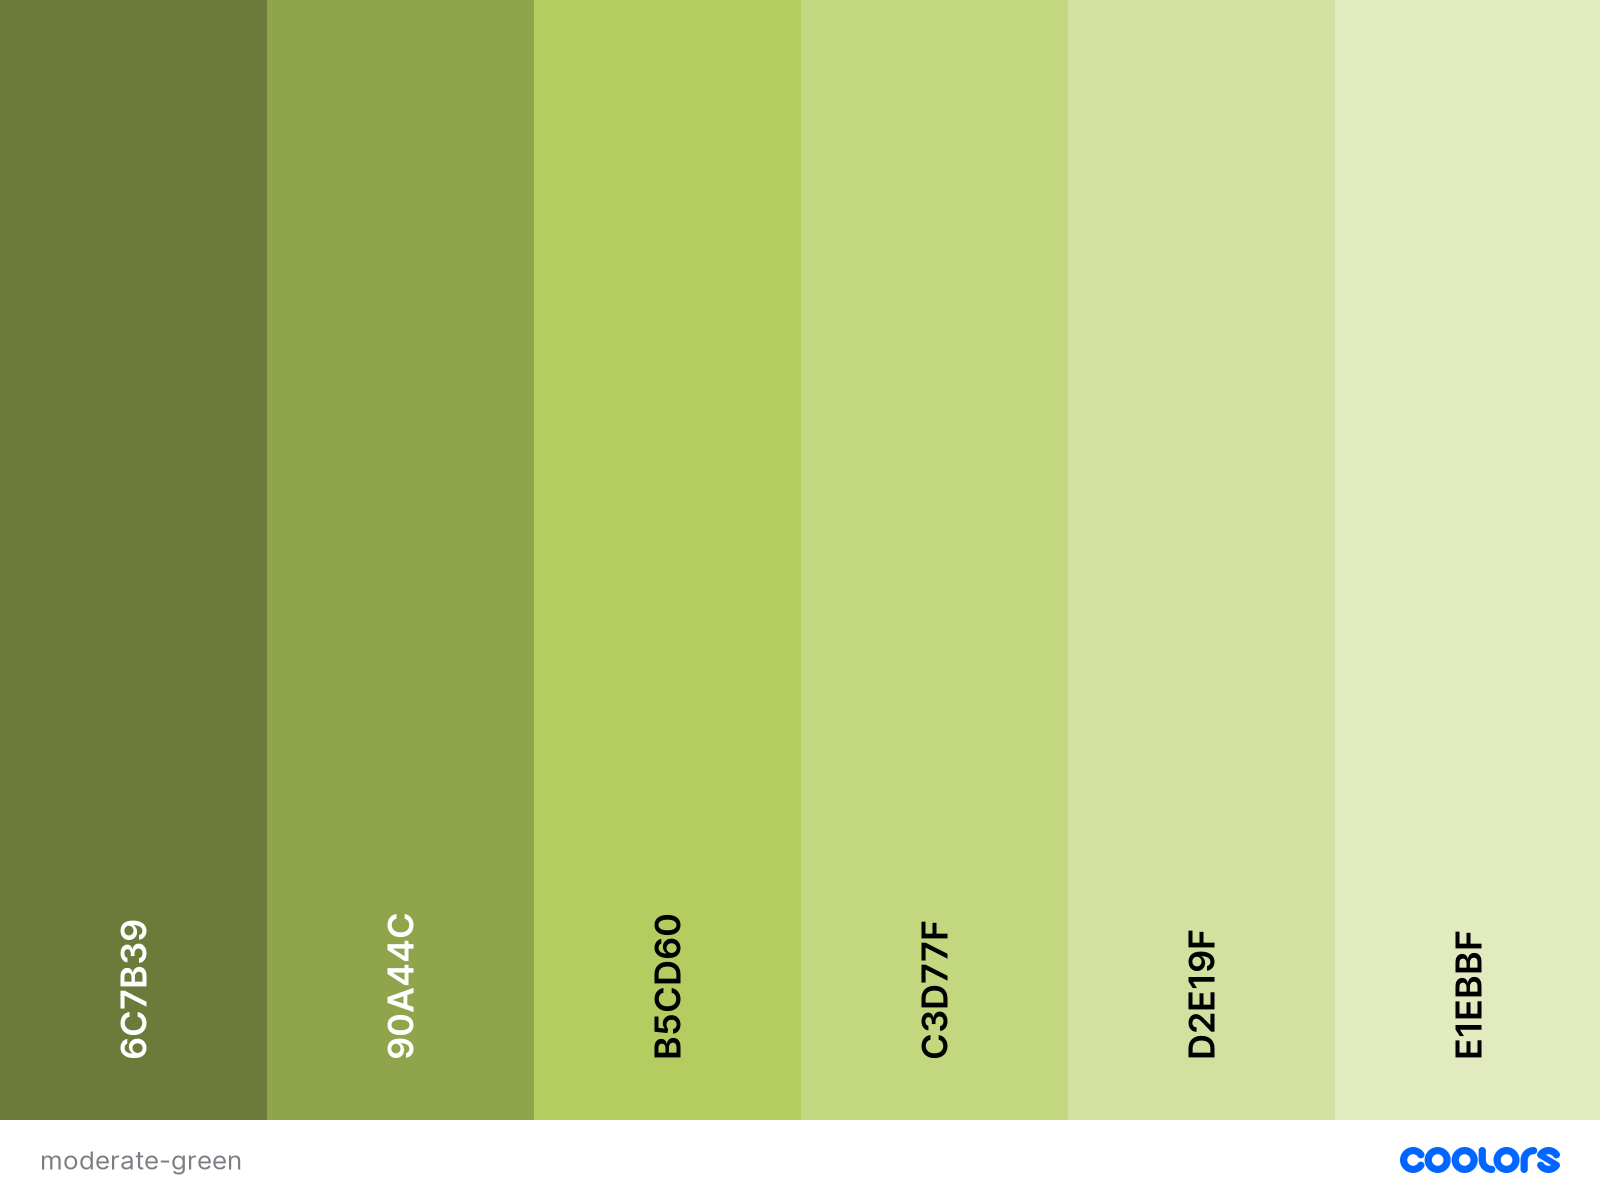
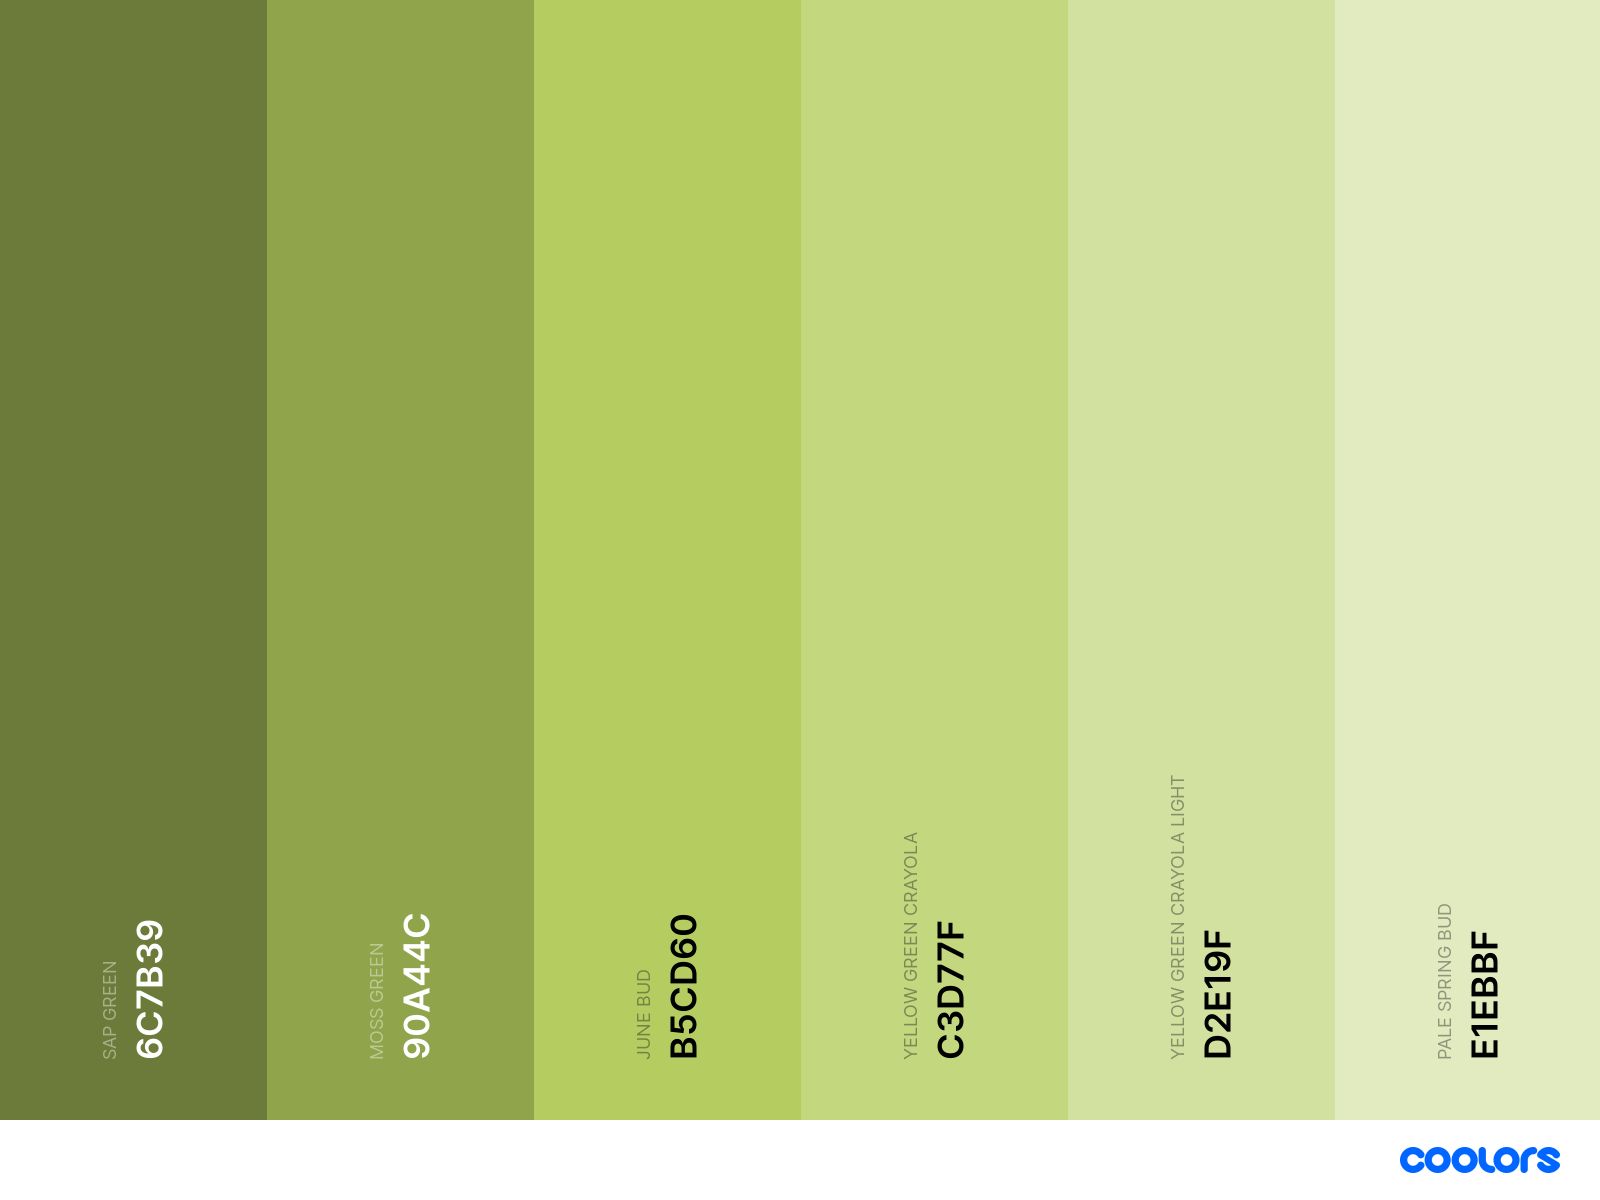
update README

diff --git a/README.md b/README.md
@@ -2,38 +2,59 @@
 
 **NOTICE:** This is still work in progress and may look like the standard dark color scheme.
 
-## main color scheme
+## Main colors
 
-### color codes
-
-This theme uses several base colors to get a nice green look. The main color is called _june bud_. Following colors are used:
+This theme uses several base colors to get a nice green look. The main color is called _June Bud_. Following colors are used:
 
 | Name                          | hex code   |
 |-------------------------------|------------|
-| sap green                     | `#6c7b39`  |
-| moss green                    | `#90a44c`  |
-| june bud                      | `#b5cd60`  |
-| yellow green crayloa          | `#c3d77f`  |
-| yellow green crayloa light    | `#d2e19f`  |
-| pale spring bud               | `#e1ebbf`  |
-
-### screenshot
+| Sap Green                     | `#6c7b39`  |
+| Moss Green                    | `#90a44c`  |
+| **June Bud**                  | `#b5cd60`  |
+| Yellow Green Crayola          | `#c3d77f`  |
+| Yellow Green Crayola Light    | `#d2e19f`  |
+| Pale Spring Bud               | `#e1ebbf`  |
 
 ![moderate-green](res/moderate-green.png)
 
-## additional colors
+## Additional Colors
+
+### Dark
 
 | Name              | hex code   |
 |-------------------|------------|
 | eerie black       | `#171717`  |
 | eerie black light | `#242424`  |
-| gray90            | `#e5e5e5`  |
-| crimson ua        | `#a62639`  |
-| crimson ua dark   | `#841e2d`  |
-| crimson ua light  | `#d2929c`  |
-| orange peel       | `#ff9f1c`  |
-| orange peel dark  | `#cc7f16`  |
-| orange peel light | `#ffcf8d`  |
-| teal blue         | `#077187`  |
-| teal blue dark    | `#055a6c`  |
-| teal blue light   | `#83b8c3`  | 
+| gray 90 /platinum | `#e5e5e5`  |
+
+![Dark](res/dark.png)
+
+### Red
+
+| Name              | hex code   |
+|-------------------|------------|
+| Antique Ruby      | `#841e2d`  |
+| Crimson UA        | `#a62639`  |
+| Puce              | `#d2929c`  |
+
+![Red](res/red.png)
+
+### Orange
+
+| Name              | hex code   |
+|-------------------|------------|
+| Bronze            | `#cc7f16`  |
+| Orange Peel       | `#ff9f1c`  |
+| Deep Champagne    | `#ffcf8d`  |
+
+![Orange](res/orange.png)
+
+### Blue
+
+| Name              | hex code   |
+|-------------------|------------|
+| Blue Sapphire     | `#055a6c`  |
+| Teal Blue         | `#077187`  |
+| Dark Sky Blue     | `#83b8c3`  | 
+
+![Blue](res/blue.png)
